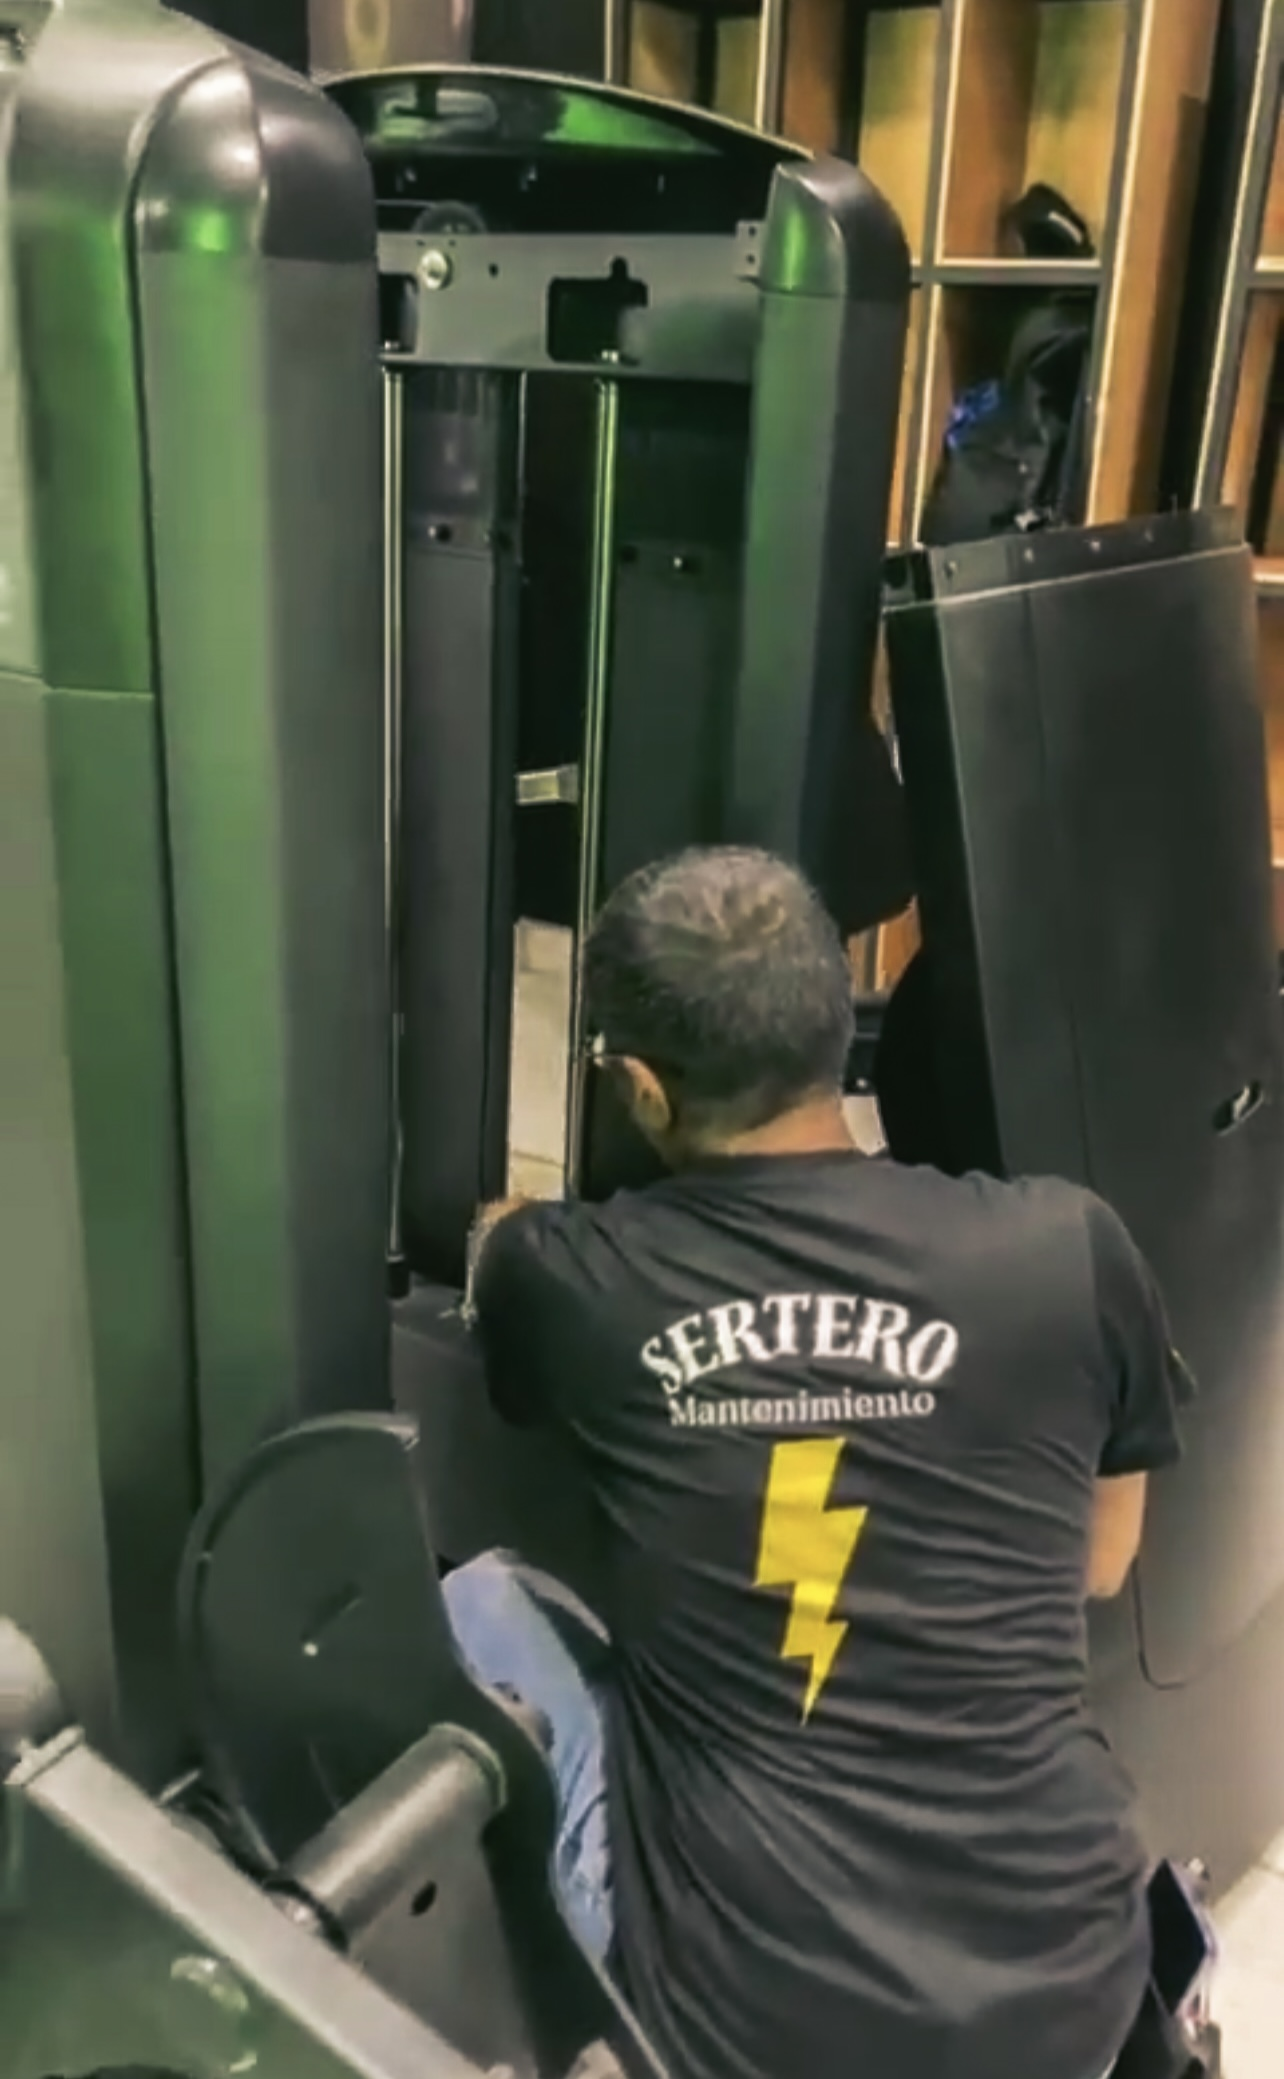
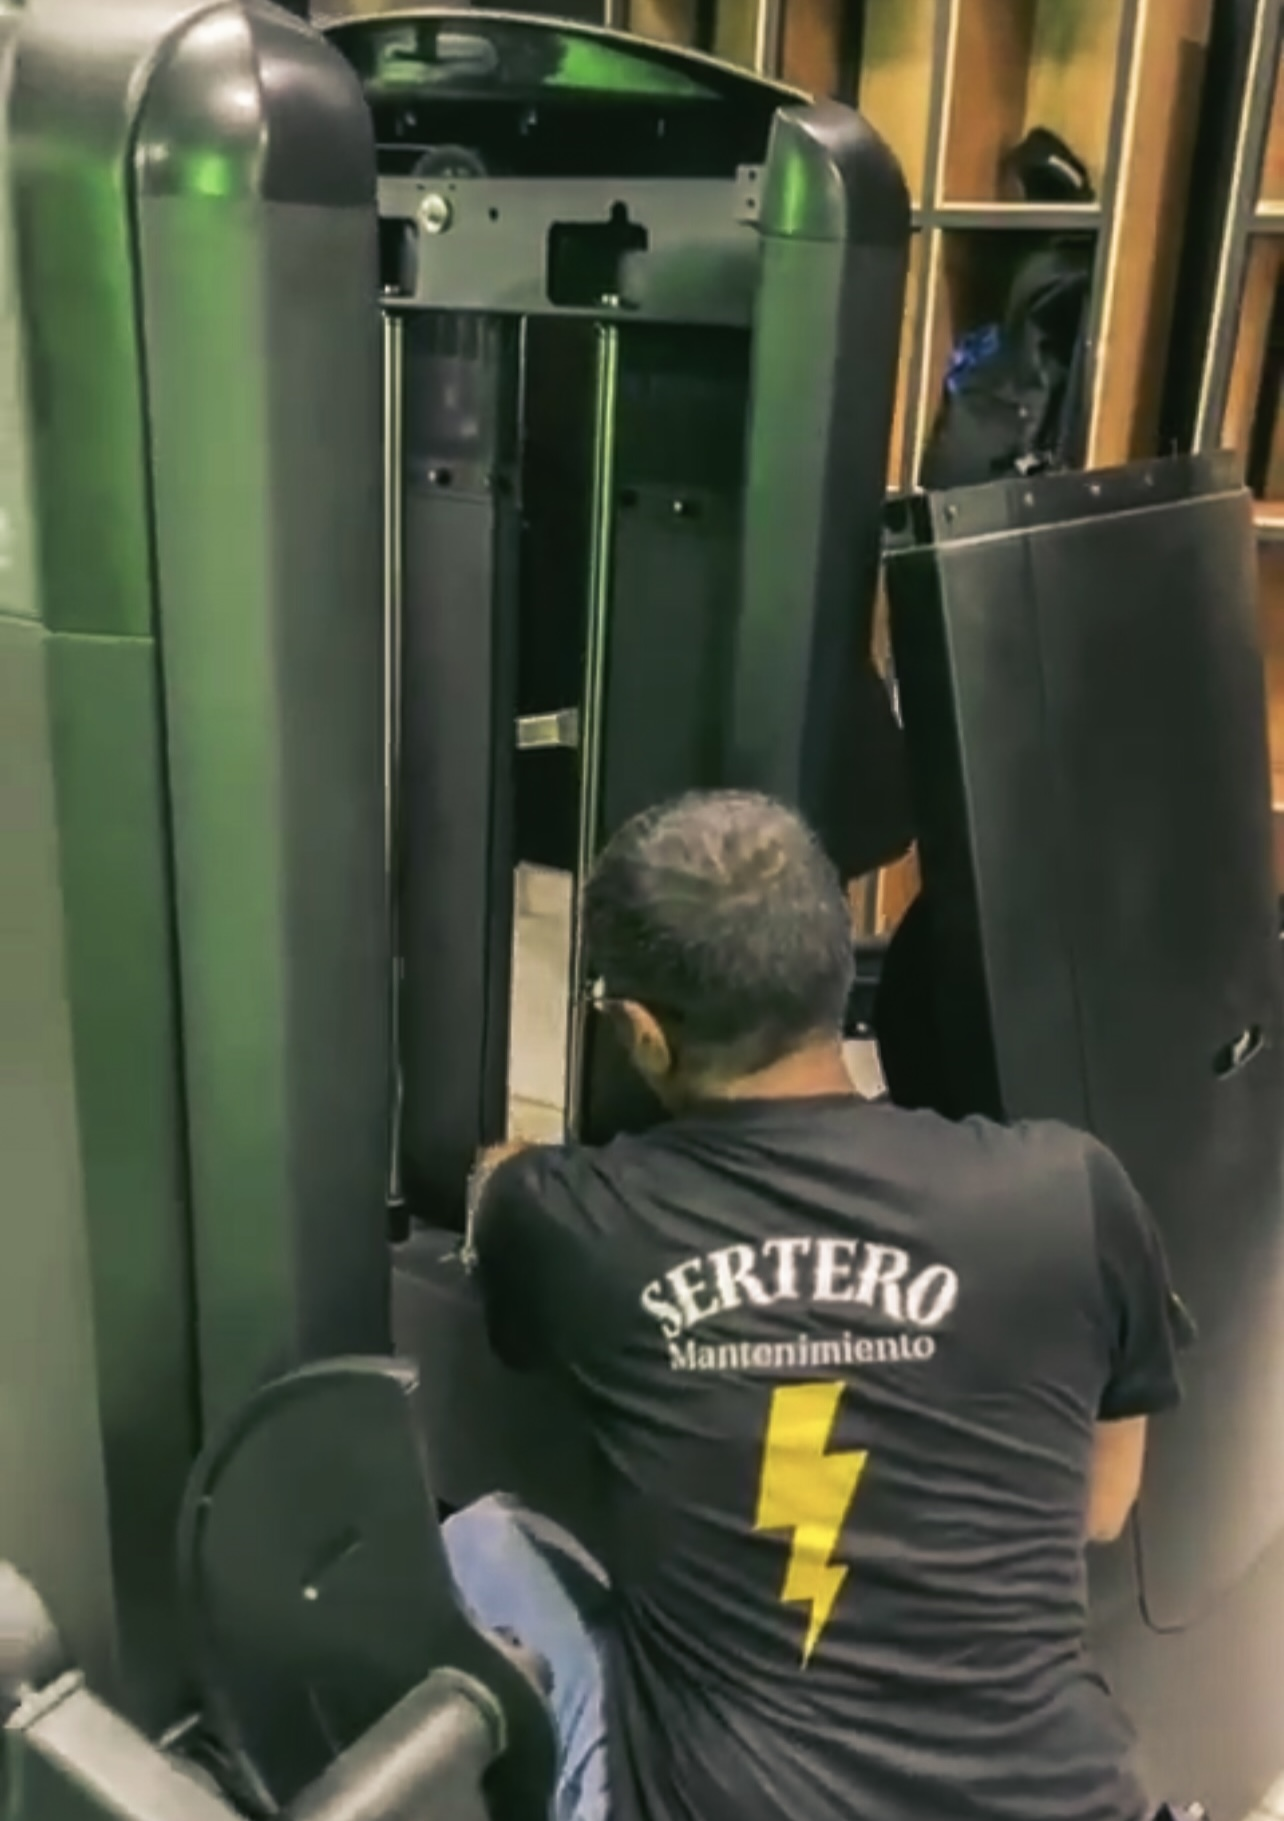
agregando cambios

diff --git a/pag/blog.html b/pag/blog.html
@@ -27,7 +27,7 @@
             <div class="nav">
                 <nav id="hamburgerMenu" class="menu">
                     <ul>
-                        <li><a href=".index.html#servicios" class="">Servicios</a></li>
+                        <li><a href="/index.html#servicios" class="">Servicios</a></li>
                         <li><a href="/pag/reportes.html">Reportes</a></li>
                         <li><a href="/pag/blog.html">Blog</a></li>
                         <li><a href="/index.html#testimonios">Testimonios</a></li>

diff --git a/css/button.css b/css/button.css
@@ -7,12 +7,13 @@ button {
     width: 6.2em;
     height: 2em;
     transition: 0.5s;
-    font-size: 17px;
-    border-radius: 0.4em;
+    font-size: 16px;
+    border-radius: 0.8em;
   }
   
   button p {
     position: absolute;
+    
     top: 0.4em;
     left: 1.15em;
     margin: 0;
